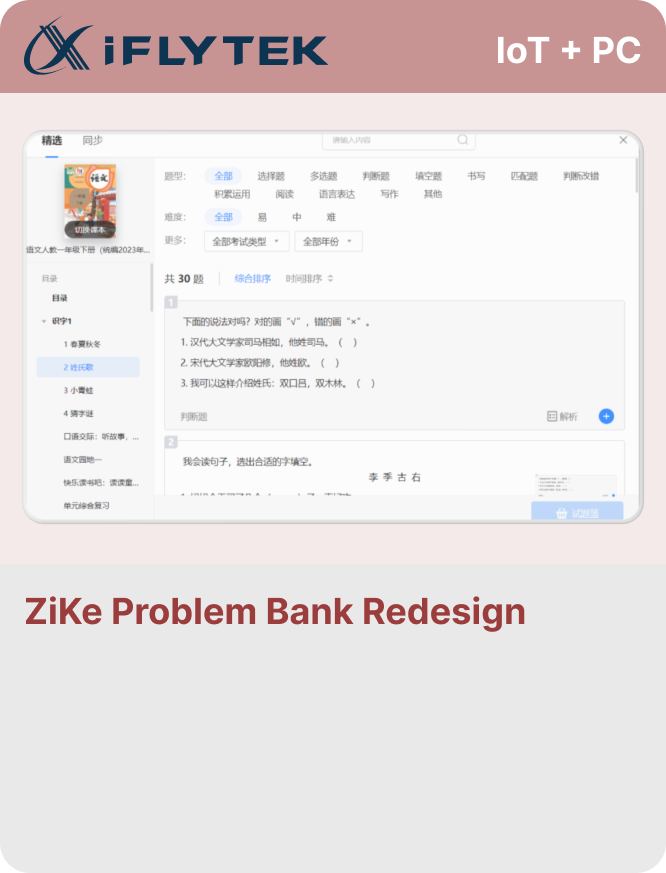
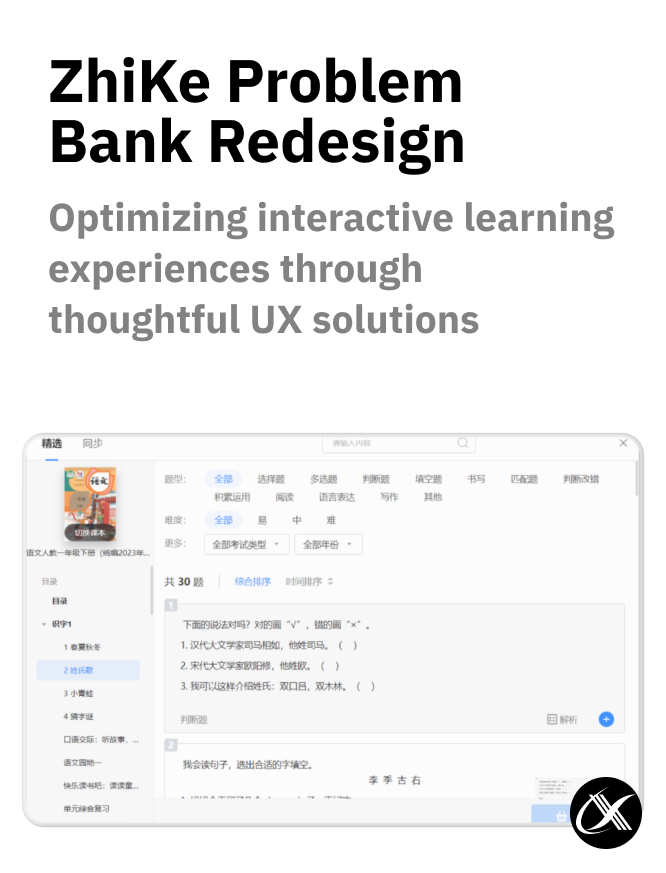
Updated Product Cards

diff --git a/css/style.css b/css/style.css
@@ -490,20 +490,16 @@ p {
 
 /* Tagline Styles */
 .portfolio-cards .tagline {
-  position: absolute;
+  display: none;
+  /* position: absolute;
   top: 245px;
   left: 10px;
-  right: 10px;
-  display: block;
-  font-size: 1em;
-  color: #000000;
-  margin: 5px 0 10px 0;
-  transition: opacity 0.3s ease;
-  text-align: left;
+  right: 10px; */
 }
 
 
 .portfolio-cards:hover .tags {
+  
   margin-top: 5px;
 }
 
@@ -519,6 +515,12 @@ p {
   right: 0;
   margin-bottom: 15px;
   font-size: 1.1em;
+  display: block;
+  font-size: 1em;
+  color: #000000;
+  margin: 5px 0 10px 0;
+  transition: opacity 0.3s ease;
+  text-align: left;
 }
 
 /* Hero Image Styles */
